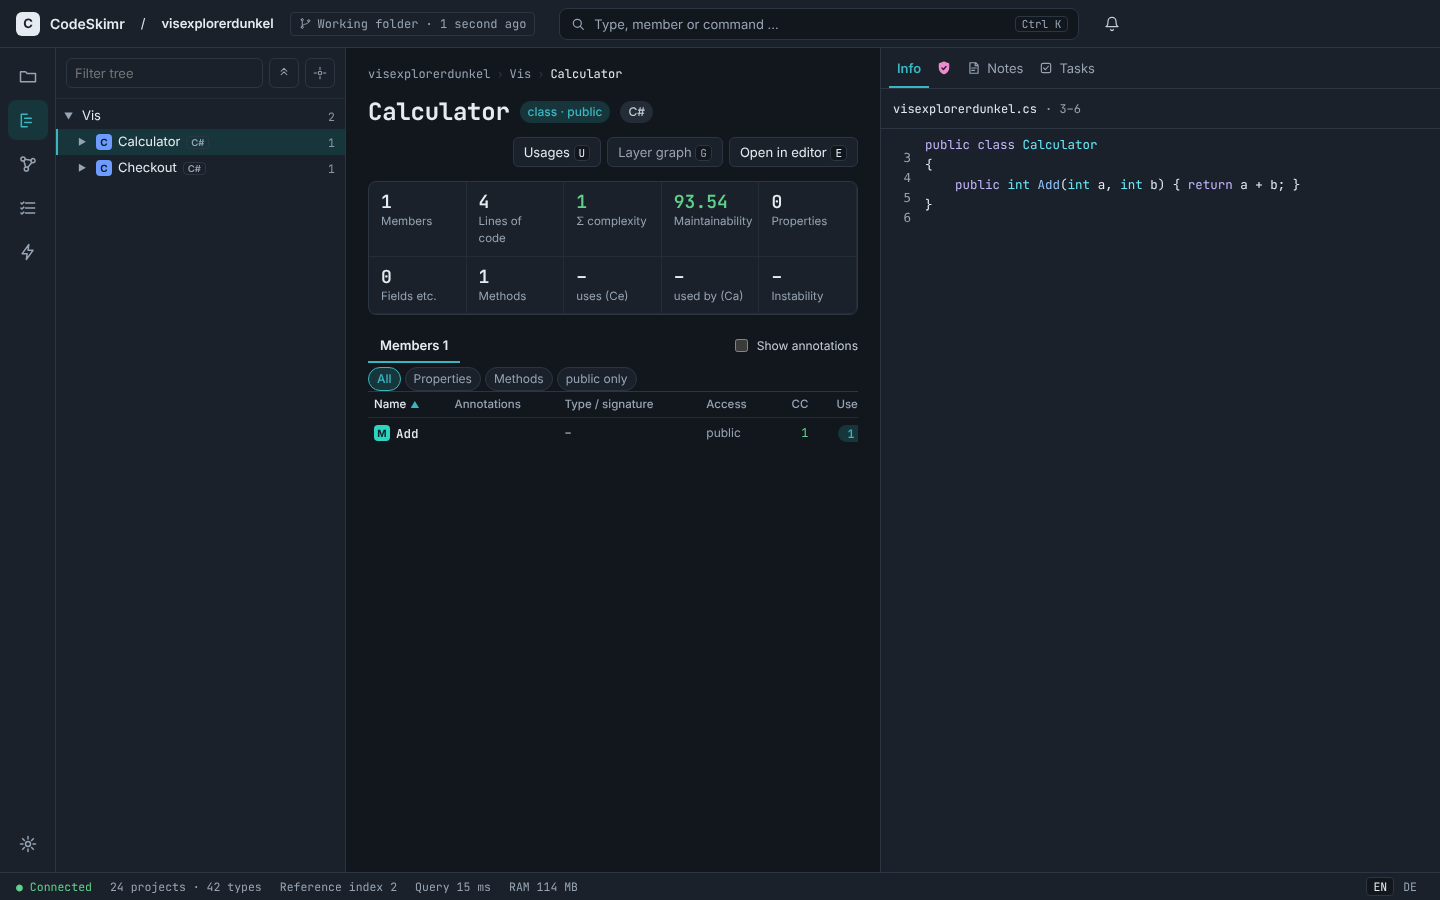
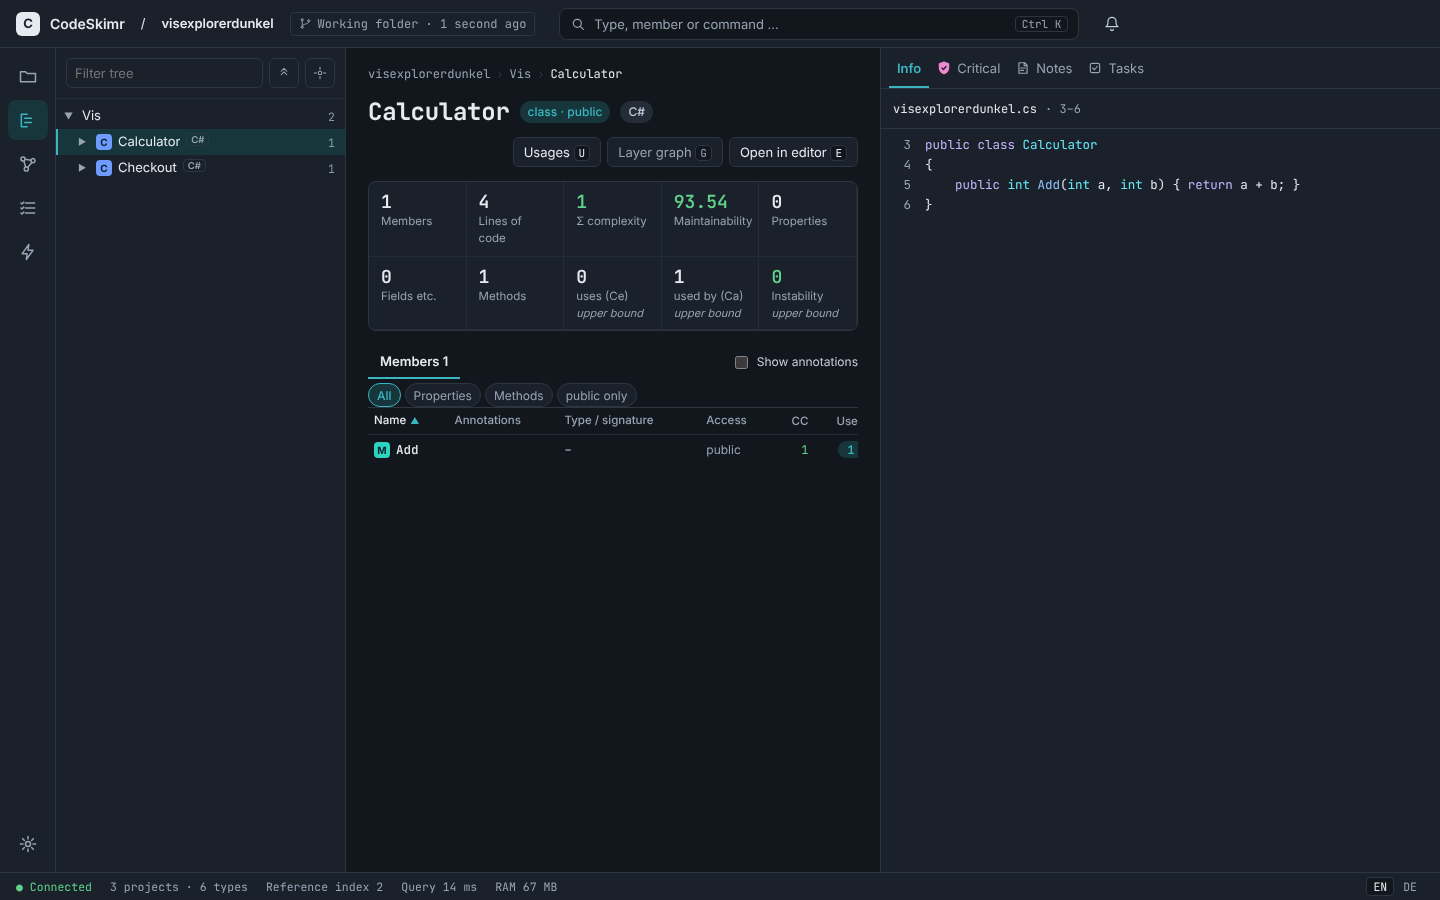
feat: coupling tiles say upper bound until level 2 checked the language
Claude-Session: https://claude.ai/code/session_01GJNKFetvVYRAEndZpCanSr

Changed region(s): [[0.25, 0.3422, 0.5938, 0.5289], [0.0938, 0.9644, 0.4062, 0.9956], [0.6562, 0.0622, 0.7812, 0.0933]]

diff --git a/web/src/features/explorer/metrics.ts b/web/src/features/explorer/metrics.ts
@@ -1,5 +1,6 @@
 import { t } from "../../shared/i18n/i18n";
-import { MISSING, TILE_SOURCE, TILES } from "./consts";
+import { I18N_KEYS } from "../../shared/i18n/keys";
+import { BOUND_TILES, MISSING, TILE_SOURCE, TILES } from "./consts";
 import { metricValue } from "./format";
 import type { SymbolInfo, Thresholds } from "./types";
 
@@ -11,6 +12,9 @@ export interface Tile {
   value: string;
   /** `good`, `medium` or `poor` for metrics that have thresholds. */
   rating: string | null;
+  /** A short note under the label, "upper bound" for a coupling count that level 2 has not
+   * confirmed (ADR 0037); `null` for a tile without a note. */
+  hint: string | null;
 }
 
 const LIMITED: readonly string[] = ["cc", "mi", "instability"];
@@ -49,8 +53,14 @@ function kindCount(info: SymbolInfo, kinds: readonly string[]): number {
 }
 
 /** The ten tiles of a symbol (blueprint B.2): member count, the stored metrics and the counts of
- * the member kinds. A metric the scan did not measure has no value. */
-export function tilesOf(info: SymbolInfo, thresholds: Thresholds | null, language: string): Tile[] {
+ * the member kinds. A metric the scan did not measure has no value. With `upperBound` the coupling
+ * tiles carry the note "upper bound" (ADR 0037). */
+export function tilesOf(
+  info: SymbolInfo,
+  thresholds: Thresholds | null,
+  language: string,
+  upperBound = false,
+): Tile[] {
   return TILES.map((tile) => {
     const stored = info.metrics.find((row) => row.kind === tile.id);
     let value: number | undefined = stored?.value;
@@ -59,12 +69,15 @@ export function tilesOf(info: SymbolInfo, thresholds: Thresholds | null, languag
     } else if (tile.source === TILE_SOURCE.kinds) {
       value = kindCount(info, tile.kinds);
     }
+    const bound = upperBound && BOUND_TILES.includes(tile.id);
+    const tip = tipFor(tile.id, tile.tip, thresholds);
     return {
       id: tile.id,
       label: t(tile.label),
-      tip: tipFor(tile.id, tile.tip, thresholds),
+      tip: bound ? `${tip} ${t(I18N_KEYS.EXPLORER_METRIC_BOUND_TIP)}` : tip,
       value: metricValue(value, language),
       rating: stored?.rating ?? null,
+      hint: bound ? t(I18N_KEYS.EXPLORER_METRIC_BOUND) : null,
     };
   });
 }

diff --git a/web/src/features/explorer/ExplorerScreen.test.tsx b/web/src/features/explorer/ExplorerScreen.test.tsx
@@ -6,6 +6,8 @@ import { clearUsages } from "../usages/usages";
 import { setLanguage } from "../../shared/i18n/i18n";
 import { openProject } from "../../shared/project/active";
 import { answer, fetchMock, serve, useServerSession } from "../../tests/commands";
+import { projectRow } from "../../tests/projectRow";
+import { refreshProjects } from "../projects/projects";
 import { openOrder, ORDER, OUTLINE } from "../../tests/explorer";
 import { currentMember, forgetExplorer, setMemberSort, treeScroll } from "./explorer";
 import { INITIAL_SORT } from "./memberSort";
@@ -39,6 +41,41 @@ describe("ExplorerScreen", () => {
     expect(await screen.findByRole("heading", { name: "Order" })).toBeTruthy();
     expect(within(screen.getByRole("tree")).getByTitle("C#")).toBeTruthy();
     expect(screen.getAllByText("C#").length).toBeGreaterThan(1);
+  });
+
+  it("marks the coupling tiles as an upper bound until level 2 confirmed the language", async () => {
+    openProject(1);
+    serve({
+      "explorer.outline": () => answer(OUTLINE),
+      "explorer.symbol": () => answer(ORDER),
+      "projects.list": () => answer([projectRow({ id: 1 })]),
+    });
+    await refreshProjects();
+    render(() => <ExplorerScreen />);
+    await openOrder();
+    expect(await screen.findAllByText("upper bound")).toHaveLength(3);
+  });
+
+  it("leaves the coupling tiles without a note where level 2 checked the language", async () => {
+    openProject(1);
+    const report = {
+      last_scan: { at: 1, level: "2" as const, origin: "terminal" as const },
+      level2: {
+        at: 1,
+        origin: "terminal" as const,
+        languages: [{ language: "csharp", outcome: "checked" as const, files: 3, stale: 0 }],
+      },
+    };
+    serve({
+      "explorer.outline": () => answer(OUTLINE),
+      "explorer.symbol": () => answer(ORDER),
+      "projects.list": () => answer([projectRow({ id: 1, report })]),
+    });
+    await refreshProjects();
+    render(() => <ExplorerScreen />);
+    await openOrder();
+    await screen.findByText("Fields etc.");
+    expect(screen.queryByText("upper bound")).toBeNull();
   });
 
   it("shows the structure, opens a type and shows its metrics and members", async () => {

diff --git a/web/src/features/explorer/MetricStrip.tsx b/web/src/features/explorer/MetricStrip.tsx
@@ -1,12 +1,27 @@
+import { onMount } from "solid-js";
 import { currentLanguage } from "../../shared/i18n/i18n";
+import { activeProject } from "../../shared/project/active";
+import { projects, projectsLoaded, refreshProjects } from "../projects/projects";
 import { tilesOf } from "./metrics";
 import { TileGrid } from "./TileGrid";
 import type { SymbolInfo, Thresholds } from "./types";
+import { isUpperBound } from "./upperBound";
 import styles from "./MetricStrip.module.css";
 
 /** The grid of ten metrics of the selected symbol (mock 2); the colour follows the thresholds of
- * the configuration, the number says the same, so colour is not the only carrier. */
+ * the configuration, the number says the same, so colour is not the only carrier. The coupling
+ * tiles say "upper bound" while level 2 has not confirmed the language of the symbol (ADR 0037);
+ * until the project list is read they say nothing. */
 export function MetricStrip(props: { info: SymbolInfo; thresholds: Thresholds | null }) {
-  const tiles = () => tilesOf(props.info, props.thresholds, currentLanguage());
+  onMount(() => {
+    if (!projectsLoaded()) {
+      void refreshProjects();
+    }
+  });
+  const upperBound = () => {
+    const row = projects().find((entry) => entry.id === activeProject());
+    return projectsLoaded() && isUpperBound(row?.report, props.info.language);
+  };
+  const tiles = () => tilesOf(props.info, props.thresholds, currentLanguage(), upperBound());
   return <TileGrid tiles={tiles()} classes={styles} />;
 }

diff --git a/web/src/features/explorer/upperBound.test.ts b/web/src/features/explorer/upperBound.test.ts
@@ -1,0 +1,28 @@
+import { describe, expect, it } from "vitest";
+import type { ScanReport } from "../../shared/project/report";
+import { isUpperBound } from "./upperBound";
+
+function report(outcome: "checked" | "skipped" | "failed"): ScanReport {
+  return {
+    last_scan: { at: 1, level: "2", origin: "terminal" },
+    level2: { at: 1, origin: "terminal", languages: [{ language: "rust", outcome }] },
+  };
+}
+
+describe("isUpperBound", () => {
+  it("is false only where level 2 checked the language", () => {
+    expect(isUpperBound(report("checked"), "rust")).toBe(false);
+  });
+
+  it("is true for a skipped or failed language, another language and a missing second pass", () => {
+    expect(isUpperBound(report("skipped"), "rust")).toBe(true);
+    expect(isUpperBound(report("failed"), "rust")).toBe(true);
+    expect(isUpperBound(report("checked"), "python")).toBe(true);
+    expect(isUpperBound({ ...report("checked"), level2: null }, "rust")).toBe(true);
+  });
+
+  it("is true without a stored report", () => {
+    expect(isUpperBound(null, "rust")).toBe(true);
+    expect(isUpperBound(undefined, "rust")).toBe(true);
+  });
+});

diff --git a/web/src/features/explorer/metrics.test.ts b/web/src/features/explorer/metrics.test.ts
@@ -51,6 +51,25 @@ describe("tilesOf", () => {
   });
 });
 
+describe("tilesOf with an upper bound", () => {
+  it("puts the note on the three coupling tiles and on no other", () => {
+    const noted = tilesOf(INFO, LIMITS, "en", true).filter((tile) => tile.hint !== null);
+    expect(noted.map((tile) => tile.id)).toEqual(["ce", "ca", "instability"]);
+    expect(noted[0]?.hint).toBe("upper bound");
+    expect(noted[0]?.tip).toMatch(/upper bound/);
+  });
+
+  it("says nothing when level 2 confirmed the language", () => {
+    expect(tilesOf(INFO, LIMITS, "en").every((tile) => tile.hint === null)).toBe(true);
+  });
+
+  it("speaks German in the German interface", () => {
+    setLanguage("de");
+    const ce = tilesOf(INFO, LIMITS, "de", true).find((tile) => tile.id === "ce");
+    expect(ce?.hint).toBe("Obergrenze");
+  });
+});
+
 describe("tipFor", () => {
   it("names the limits only when the thresholds are known", () => {
     expect(tipFor("cc", I18N_KEYS.EXPLORER_METRIC_CC_TIP, LIMITS)).toMatch(/5.*10/);

diff --git a/web/src/features/explorer/upperBound.ts b/web/src/features/explorer/upperBound.ts
@@ -1,0 +1,9 @@
+import { OUTCOME, type ScanReport } from "../../shared/project/report";
+
+/** Whether the coupling counts of a symbol are only an upper bound (ADR 0037): level 1 counts
+ * every reference, also the probable ones, so a count is firm only where level 2 checked the
+ * language of the symbol in the newest scan. A project without a stored report is not confirmed. */
+export function isUpperBound(report: ScanReport | null | undefined, language: string): boolean {
+  const line = report?.level2?.languages.find((entry) => entry.language === language);
+  return line?.outcome !== OUTCOME.checked;
+}

diff --git a/web/src/features/explorer/TileGrid.tsx b/web/src/features/explorer/TileGrid.tsx
@@ -1,4 +1,4 @@
-import { For } from "solid-js";
+import { For, Show } from "solid-js";
 import { cx } from "../../shared/ui/cx";
 import type { Tile } from "./metrics";
 import { ratingClass } from "./ratingClass";
@@ -18,6 +18,9 @@ export function TileGrid(props: { tiles: Tile[]; classes: TileClasses }) {
               {tile.value}
             </div>
             <div class={props.classes.label}>{tile.label}</div>
+            <Show when={tile.hint}>
+              <div class={props.classes.hint}>{tile.hint}</div>
+            </Show>
           </div>
         )}
       </For>

diff --git a/web/src/shared/i18n/keys.ts b/web/src/shared/i18n/keys.ts
@@ -412,6 +412,8 @@ export const I18N_KEYS = {
   EXPLORER_METRIC_CA_TIP: "explorer-metric-ca-tip",
   EXPLORER_METRIC_INSTABILITY: "explorer-metric-instability",
   EXPLORER_METRIC_INSTABILITY_TIP: "explorer-metric-instability-tip",
+  EXPLORER_METRIC_BOUND: "explorer-metric-bound",
+  EXPLORER_METRIC_BOUND_TIP: "explorer-metric-bound-tip",
   EXPLORER_GROUP_TYPES: "explorer-group-types",
   EXPLORER_LOADING: "explorer-loading",
   EXPLORER_METRIC_PROPERTIES: "explorer-metric-properties",

diff --git a/web/src/features/explorer/consts.ts b/web/src/features/explorer/consts.ts
@@ -238,6 +238,10 @@ export const TILES = [
   },
 ] as const;
 
+/** The tiles of the coupling counts (ADR 0037); while level 2 has not confirmed the language of the
+ * symbol they say "upper bound". */
+export const BOUND_TILES: readonly string[] = ["ce", "ca", "instability"];
+
 /** Decimals of a metric value with a fraction. */
 export const METRIC_DECIMALS = 2;
 /** Shown for a missing value. */

diff --git a/web/src/features/explorer/MetricStrip.module.css b/web/src/features/explorer/MetricStrip.module.css
@@ -24,6 +24,12 @@
     color: var(--muted);
 }
 
+.hint {
+    font-size: 11px;
+    color: var(--muted);
+    font-style: italic;
+}
+
 .good {
     color: var(--good);
 }

diff --git a/docs/ui.md b/docs/ui.md
@@ -47,7 +47,7 @@ The screen shows the active project (`shared/project/active.ts`) with two comman
 - Keys: Up and Down move the cursor, Right opens (or goes to the first child), Left closes (or goes to the parent), Home and End jump, Enter and Space select or toggle, `Ctrl+Left` closes everything, `Ctrl+.` shows the selection.
 - Tree: the row "(no layer)" only shows when the project has layers and some types belong to none; a project without any layer shows its namespaces at the top.
 - Language (issue "language of an object"): `explorer.outline` gives every type a `language` (id of the language pack of the declaring file) and `explorer.symbol` gives the same for the shown symbol. The tree shows a short name after every type row (`LANGUAGE_SHORT` in `web/src/features/explorer/consts.ts`, the tooltip has the full name from `languageName`), the details show the language name as a second label next to the kind. It is always shown, also in a project with one language. A nested type takes the language of the type that holds it.
-- Details: breadcrumb, name with kind and visibility, documentation, ten metric tiles, member table with the chips All, Properties, Methods and "public only". The colour of a metric and of the complexity of a member comes from the thresholds in `config/default.toml` (`metrics.*`), which `explorer.outline` delivers; the number is always shown too, and the tooltip of a column or tile names the limits. A failure of the symbol keeps the tree.
+- Details: breadcrumb, name with kind and visibility, documentation, ten metric tiles, member table with the chips All, Properties, Methods and "public only". The colour of a metric and of the complexity of a member comes from the thresholds in `config/default.toml` (`metrics.*`), which `explorer.outline` delivers; the number is always shown too, and the tooltip of a column or tile names the limits. The tiles of the coupling counts (`uses (Ce)`, `used by (Ca)`, instability) carry the note "upper bound" ("Obergrenze") while the newest scan did not check the language of the symbol with level 2 (ADR 0037): level 1 counts every reference, also the probable ones. The note comes from the `report` of `projects.list` and is absent until that list is read. A failure of the symbol keeps the tree.
 - Source column (WP-45b): the right column shows file, position and code of the selected member, or of the selected type if no member is picked. `explorer.source` reads the lines of the declaration from the project folder as it is now (not from the scan), so a file edited since the scan can show shifted lines; the next scan fixes that. Only a project that is a folder on this machine has source; a Git project says so. A file that is gone gives the registered failure `SRC-201`, a file over 4 MiB `SRC-501`, a declaration over 400 lines is cut with a note. The path is resolved against the project folder and anything that lies outside it, also through a link, is refused. Line numbers and code are two plain `pre` blocks, so a long declaration costs two DOM nodes.
 - Names in the code (issues #158, #171): `explorer.source` returns `spans`, the places where a symbol is named (one-line references of the scan). The code is still one `pre`, but each name is a small element with `data-symbol`; `Alt+click` on it opens the usages of that symbol (`showUsages`, the `title` says so). A plain click does nothing, and text that is not a reference stays plain. `Alt+Down` and `Alt+Up` select the next and previous member of the shown type in the order of the member table (nested types are skipped, the ends stop); with no member selected they start at the first or the last. A file edited since the scan can shift the places; the command leaves out those that do not fit their line.
 - Syntax colours (ADR 0064): `explorer.source` also returns `tokens`, runs `{ line, start, end, class }` that the server cuts with the `highlights.scm` of the language pack. `segments()` merges them with the names; a coloured piece is a `span` with the class of its colour (`--syn-*` tokens of the three themes), a name inside a coloured run keeps `data-symbol` and the colour. A language without `highlights.scm` stays plain. The lines are parsed as the excerpt of the declaration, so a name that needs the surrounding file may be coloured as plain.
